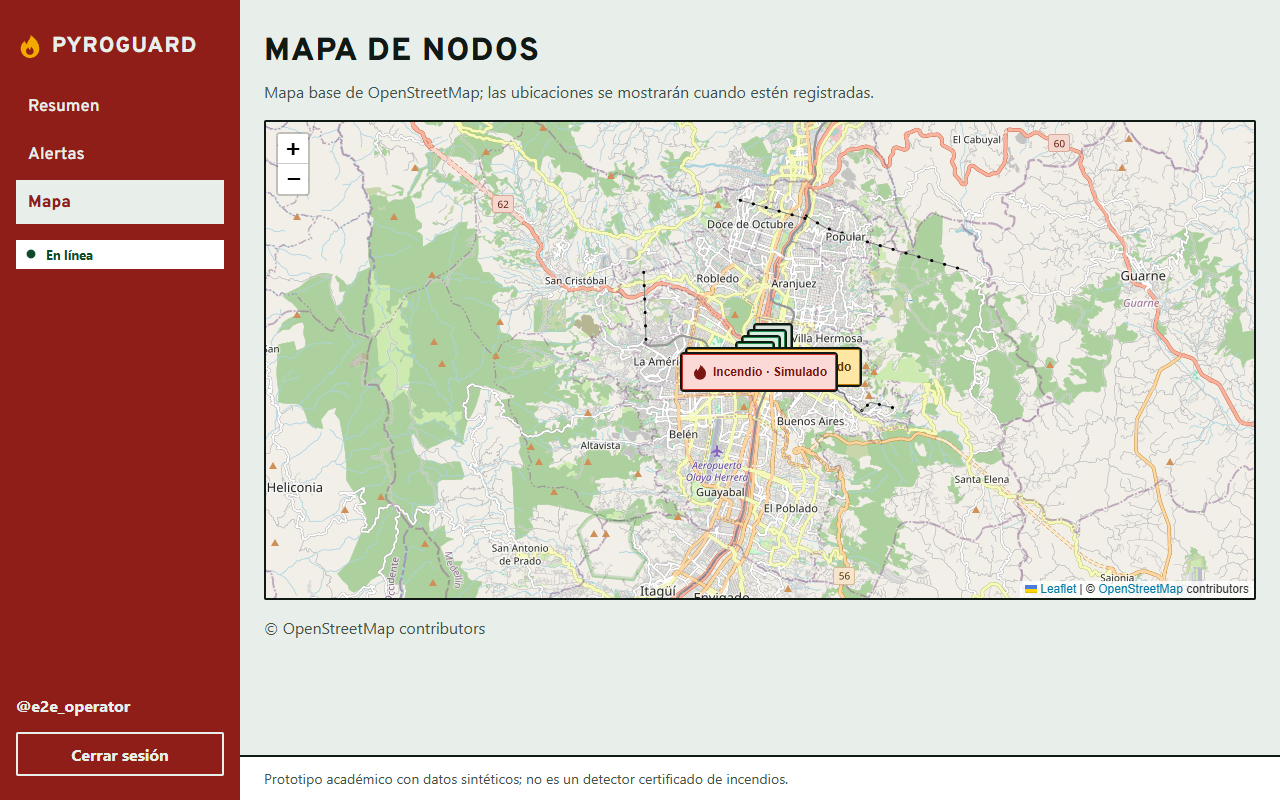
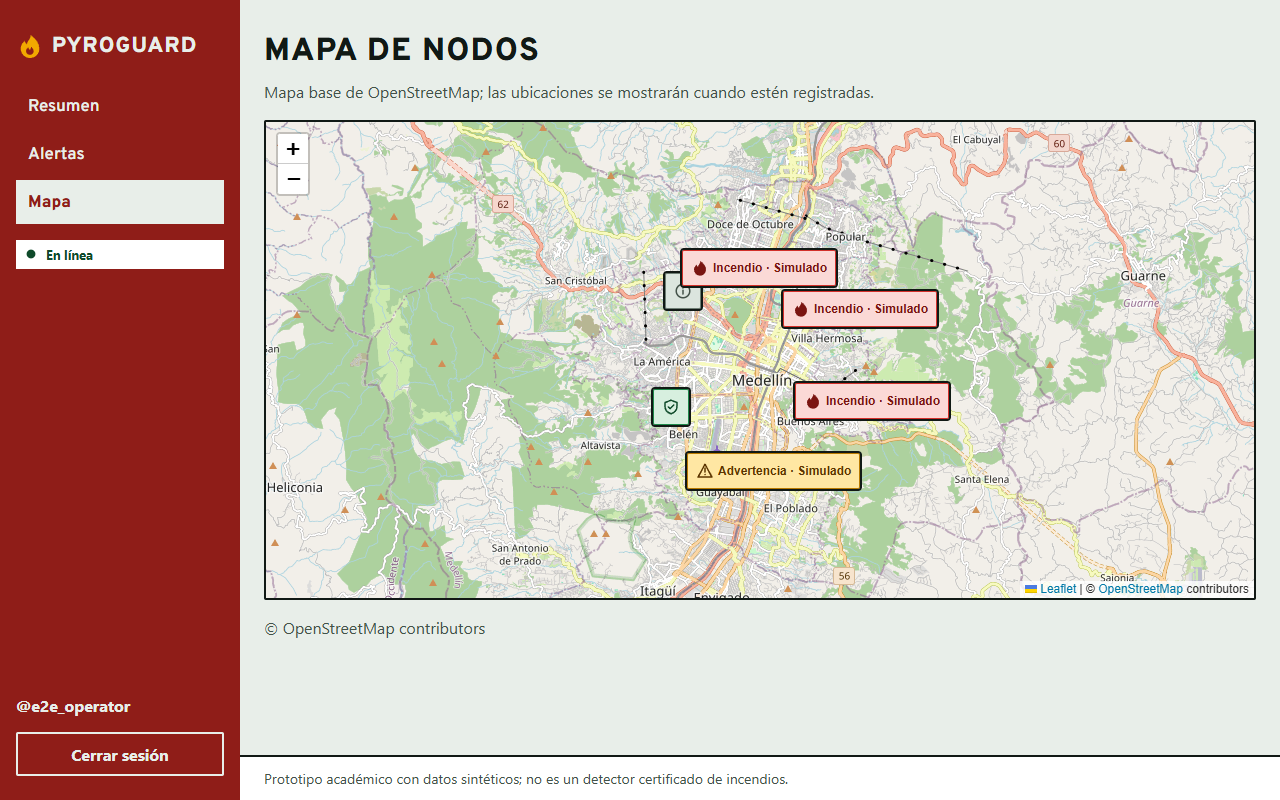
docs(capturas): capturas con el mapa separado y tareas de la Fase 12

Changed region(s): [[0.5, 0.3125, 0.75, 0.5312], [0.5312, 0.5625, 0.6875, 0.625]]

diff --git a/TASKS.md b/TASKS.md
@@ -154,3 +154,10 @@ Alcance: rediseño completo autorizado por el usuario el 2026-11-18 (se conserva
 
 - [x] fix(auth): usar el Client ID de OAuth propio en desarrollo y producción [11.1]
 - [x] docs(readme): dominio de producción, orígenes de Google, capturas y revisión de zod [11.2]
+
+## Fase 12 — Mantenimiento final
+
+- [x] chore(deps): parches de seguridad (`zod` 4.6.6) y de Angular 22.2.6 / CLI 22.2.7; `npm audit` en 0 [12.1]
+- [x] feat(map): los marcadores a pocos píxeles se abren en abanico (solo visual, recalculado en cada zoom) [12.2]
+- [x] docs(readme): sección de seguridad al día [12.3]
+- Medido (12.4): login en móvil con red 4G lenta y CPU 4× más lenta, FCP/LCP 1,8 s, CLS 0,014, 89,7 kB iniciales comprimidos; sin scroll horizontal en 768 px (panel, alertas, mapa).
